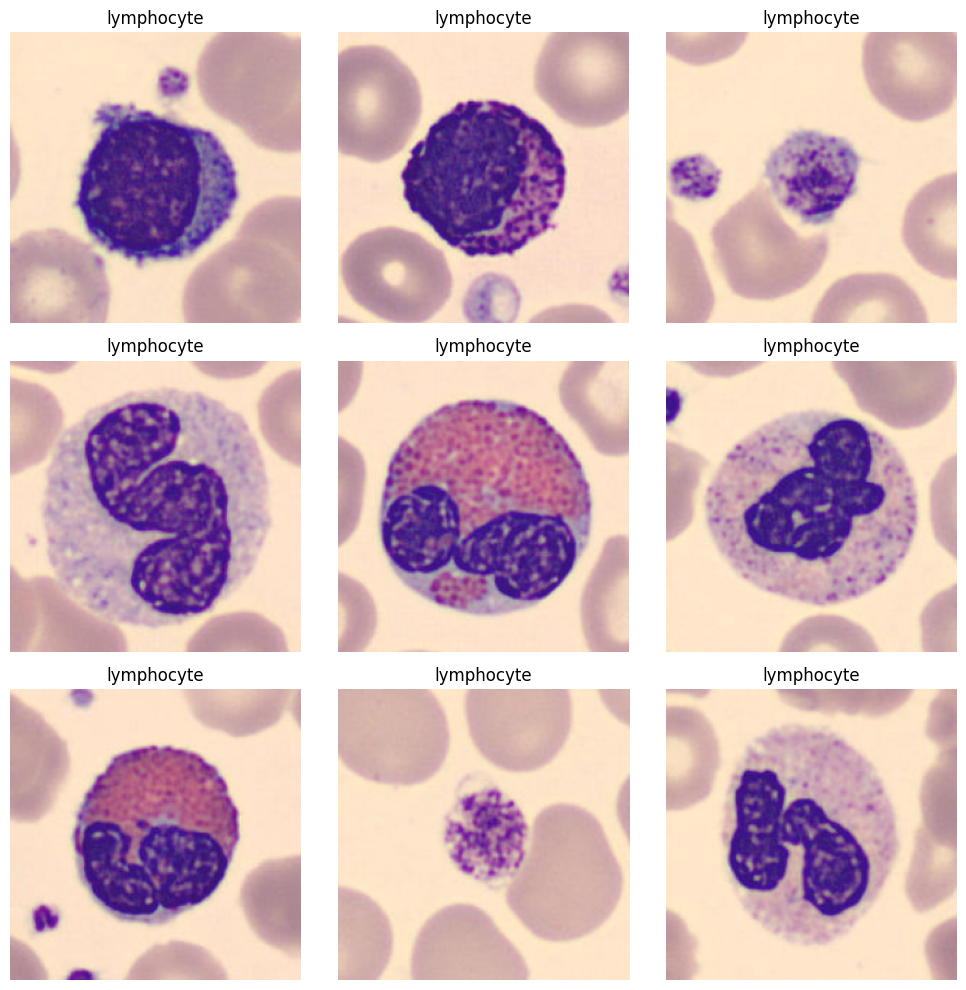
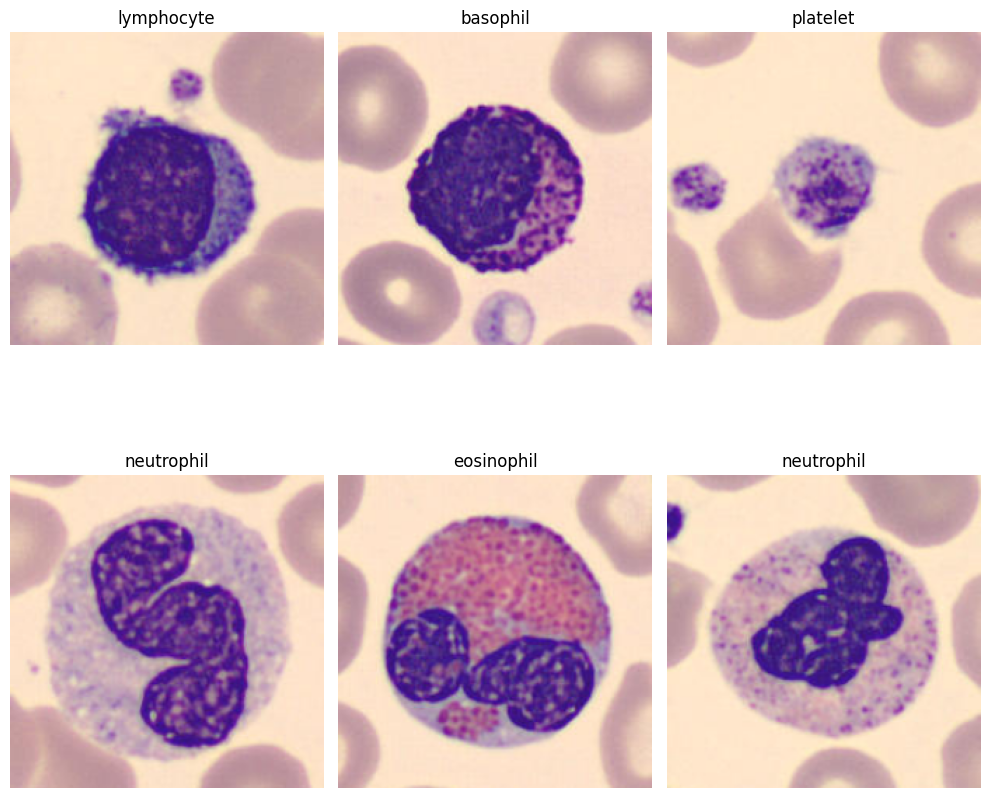
address init feedback

diff --git a/docs/examples/classification/medmnist_multiclass.md b/docs/examples/classification/medmnist_multiclass.md
@@ -34,6 +34,7 @@ from medmnist import INFO
 from medicai.utils import GradCAM
 from medicai.models import EfficientNetV2B0
 
+import textwrap
 import numpy as np 
 import pandas as pd
 from matplotlib import pyplot as plt
@@ -159,13 +160,15 @@ test_ds = get_tf_dataset(
 To sanity-check the pipeline, the next helper draws a few samples from a dataset batch. Note that ``class_ids`` is used only for the plot title lookup here; it does not filter the dataset to that specific class.
 
 ```python
-def plot_dataset_samples(dataset, class_ids=None, n=9):
+def plot_dataset_samples(dataset, n=9):
     plt.figure(figsize=(10, 10))
+    cols = int(np.ceil(np.sqrt(n)))
+    rows = int(np.ceil(n / cols))
     
     for i, (images, labels) in enumerate(dataset.unbatch().take(n)):
-        ax = plt.subplot(int(n ** 0.5 + 0.5), int(n ** 0.5 + 0.5), i + 1)
+        ax = plt.subplot(rows, cols, i + 1)
         img = images.numpy()
-        lbl = labels.numpy()
+        lbl = np.squeeze(labels.numpy())
 
         # handle grayscale or float images
         if img.ndim == 2:
@@ -173,7 +176,10 @@ def plot_dataset_samples(dataset, class_ids=None, n=9):
         else:
             plt.imshow(img.astype("uint8"))
 
-        plt.title(label_map[str(class_ids)])
+        class_name = label_map[str(int(lbl))]
+        plt.title(
+            "\n".join(textwrap.wrap(class_name, width=12))
+        )
         plt.axis("off")
     plt.tight_layout()
     plt.show()
@@ -182,14 +188,14 @@ def plot_dataset_samples(dataset, class_ids=None, n=9):
 ```
 
 ```python
-plot_dataset_samples(train_ds, class_ids=1, n=3)
+plot_dataset_samples(train_ds, n=6)
 ```
 
 ![](../../assets/examples/medmnist_multiclass/bloodmnist_sample1.png)
 
 
 ```python
-plot_dataset_samples(val_ds, class_ids=4, n=3)
+plot_dataset_samples(val_ds,  n=6)
 ```
 
 ![](../../assets/examples/medmnist_multiclass/bloodmnist_sample2.png)

diff --git a/docs/examples/segmentation/isic_2017.md b/docs/examples/segmentation/isic_2017.md
@@ -100,11 +100,15 @@ class ISICDataset(Dataset):
         mask_path = self.mask_paths[idx]
 
         image = Image.open(img_path).convert("RGB")
-        image = image.resize((input_size, input_size), Image.BILINEAR)
+        image = image.resize(
+            (input_size, input_size), Image.Resampling.BILINEAR
+        )
         image = np.array(image, dtype=np.float32) / 255.0 
          
         mask = Image.open(mask_path).convert("L")
-        mask = mask.resize((input_size, input_size), Image.NEAREST)
+        mask = mask.resize(
+            (input_size, input_size), Image.Resampling.NEAREST
+        )
         mask = np.array(
             mask, dtype=np.float32
         ) / 255.0  # normalize [0,1]